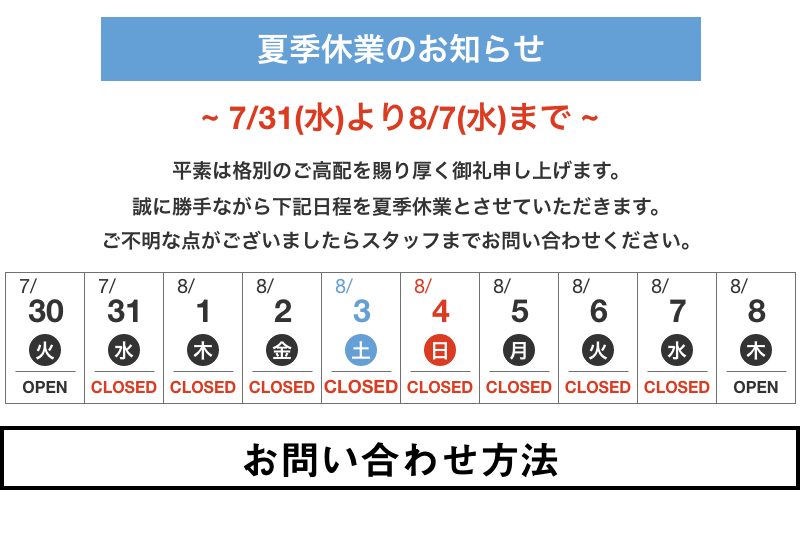
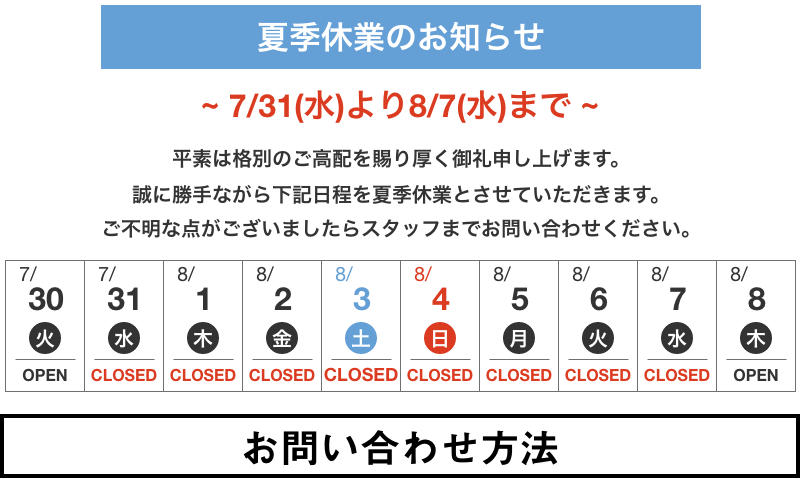
add summer vacation notice

Changed region(s): [[0.0, 0.2784, 1.0, 0.9897], [0.125, 0.0, 0.875, 0.1546], [0.2812, 0.1856, 0.7188, 0.2474]]

diff --git a/site/static/assets/index.js b/site/static/assets/index.js
@@ -21894,7 +21894,7 @@ var parent = module.bundle.parent;
 if ((!parent || !parent.isParcelRequire) && typeof WebSocket !== 'undefined') {
   var hostname = "" || location.hostname;
   var protocol = location.protocol === 'https:' ? 'wss' : 'ws';
-  var ws = new WebSocket(protocol + '://' + hostname + ':' + "54544" + '/');
+  var ws = new WebSocket(protocol + '://' + hostname + ':' + "51919" + '/');
 
   ws.onmessage = function (event) {
     checkedAssets = {};

diff --git a/site/content/news/summer-vaction-2019/index.md b/site/content/news/summer-vaction-2019/index.md
@@ -1,18 +1,41 @@
 ---
 title: "夏季休業のお知らせ"
 date: 2019-06-30T13:35:46+09:00
-draft: true
+draft: false
 author: Yasu
 category: お知らせ
 type: post
 tags:
 - 営業案内
 resources:
+- src: natsuyasumi_title.png
+  title: 夏休み
 - src: image-1.png
   title: 夏季休業のお知らせ
 ---
 ## 夏季休業のお知らせ
 
-期間：2019年07月31日(水) - 2019年08月07日(水)
+{{< blog-img "natsuyasumi_title.png" >}}
 
-{{< blog-img "image-1.png" >}}
+平素は格別のご高配を賜り厚く御礼申し上げます。
+誠に勝手ながら下記日程を夏季休業とさせていただきます。
+
+
+<div class="px-16">
+    <div class="bg-red-700 text-white p-2 text-2xl font-semibold text-center">
+        2019/07/31(水) - 2019/08/07(水)
+    </div>
+</div>
+
+期間中に質の期限が到来する場合には、その期限を2019/08/10（土）とさせていただきます。ご不明な点がございましたらスタッフまでお問い合わせください。
+
+
+We are closing above period for the summer vacation. 
+If you have pawns whose deadline expires in this period, it will be extended 7th of August 2019. If you have any questions please feel free to contact us. Thank you for your understanding.
+
+
+
+<div class="text-center">
+<img class="inline" src="image-1.png" alt="夏季休業のお知らせ 7/31-8/7">
+</div>
+
